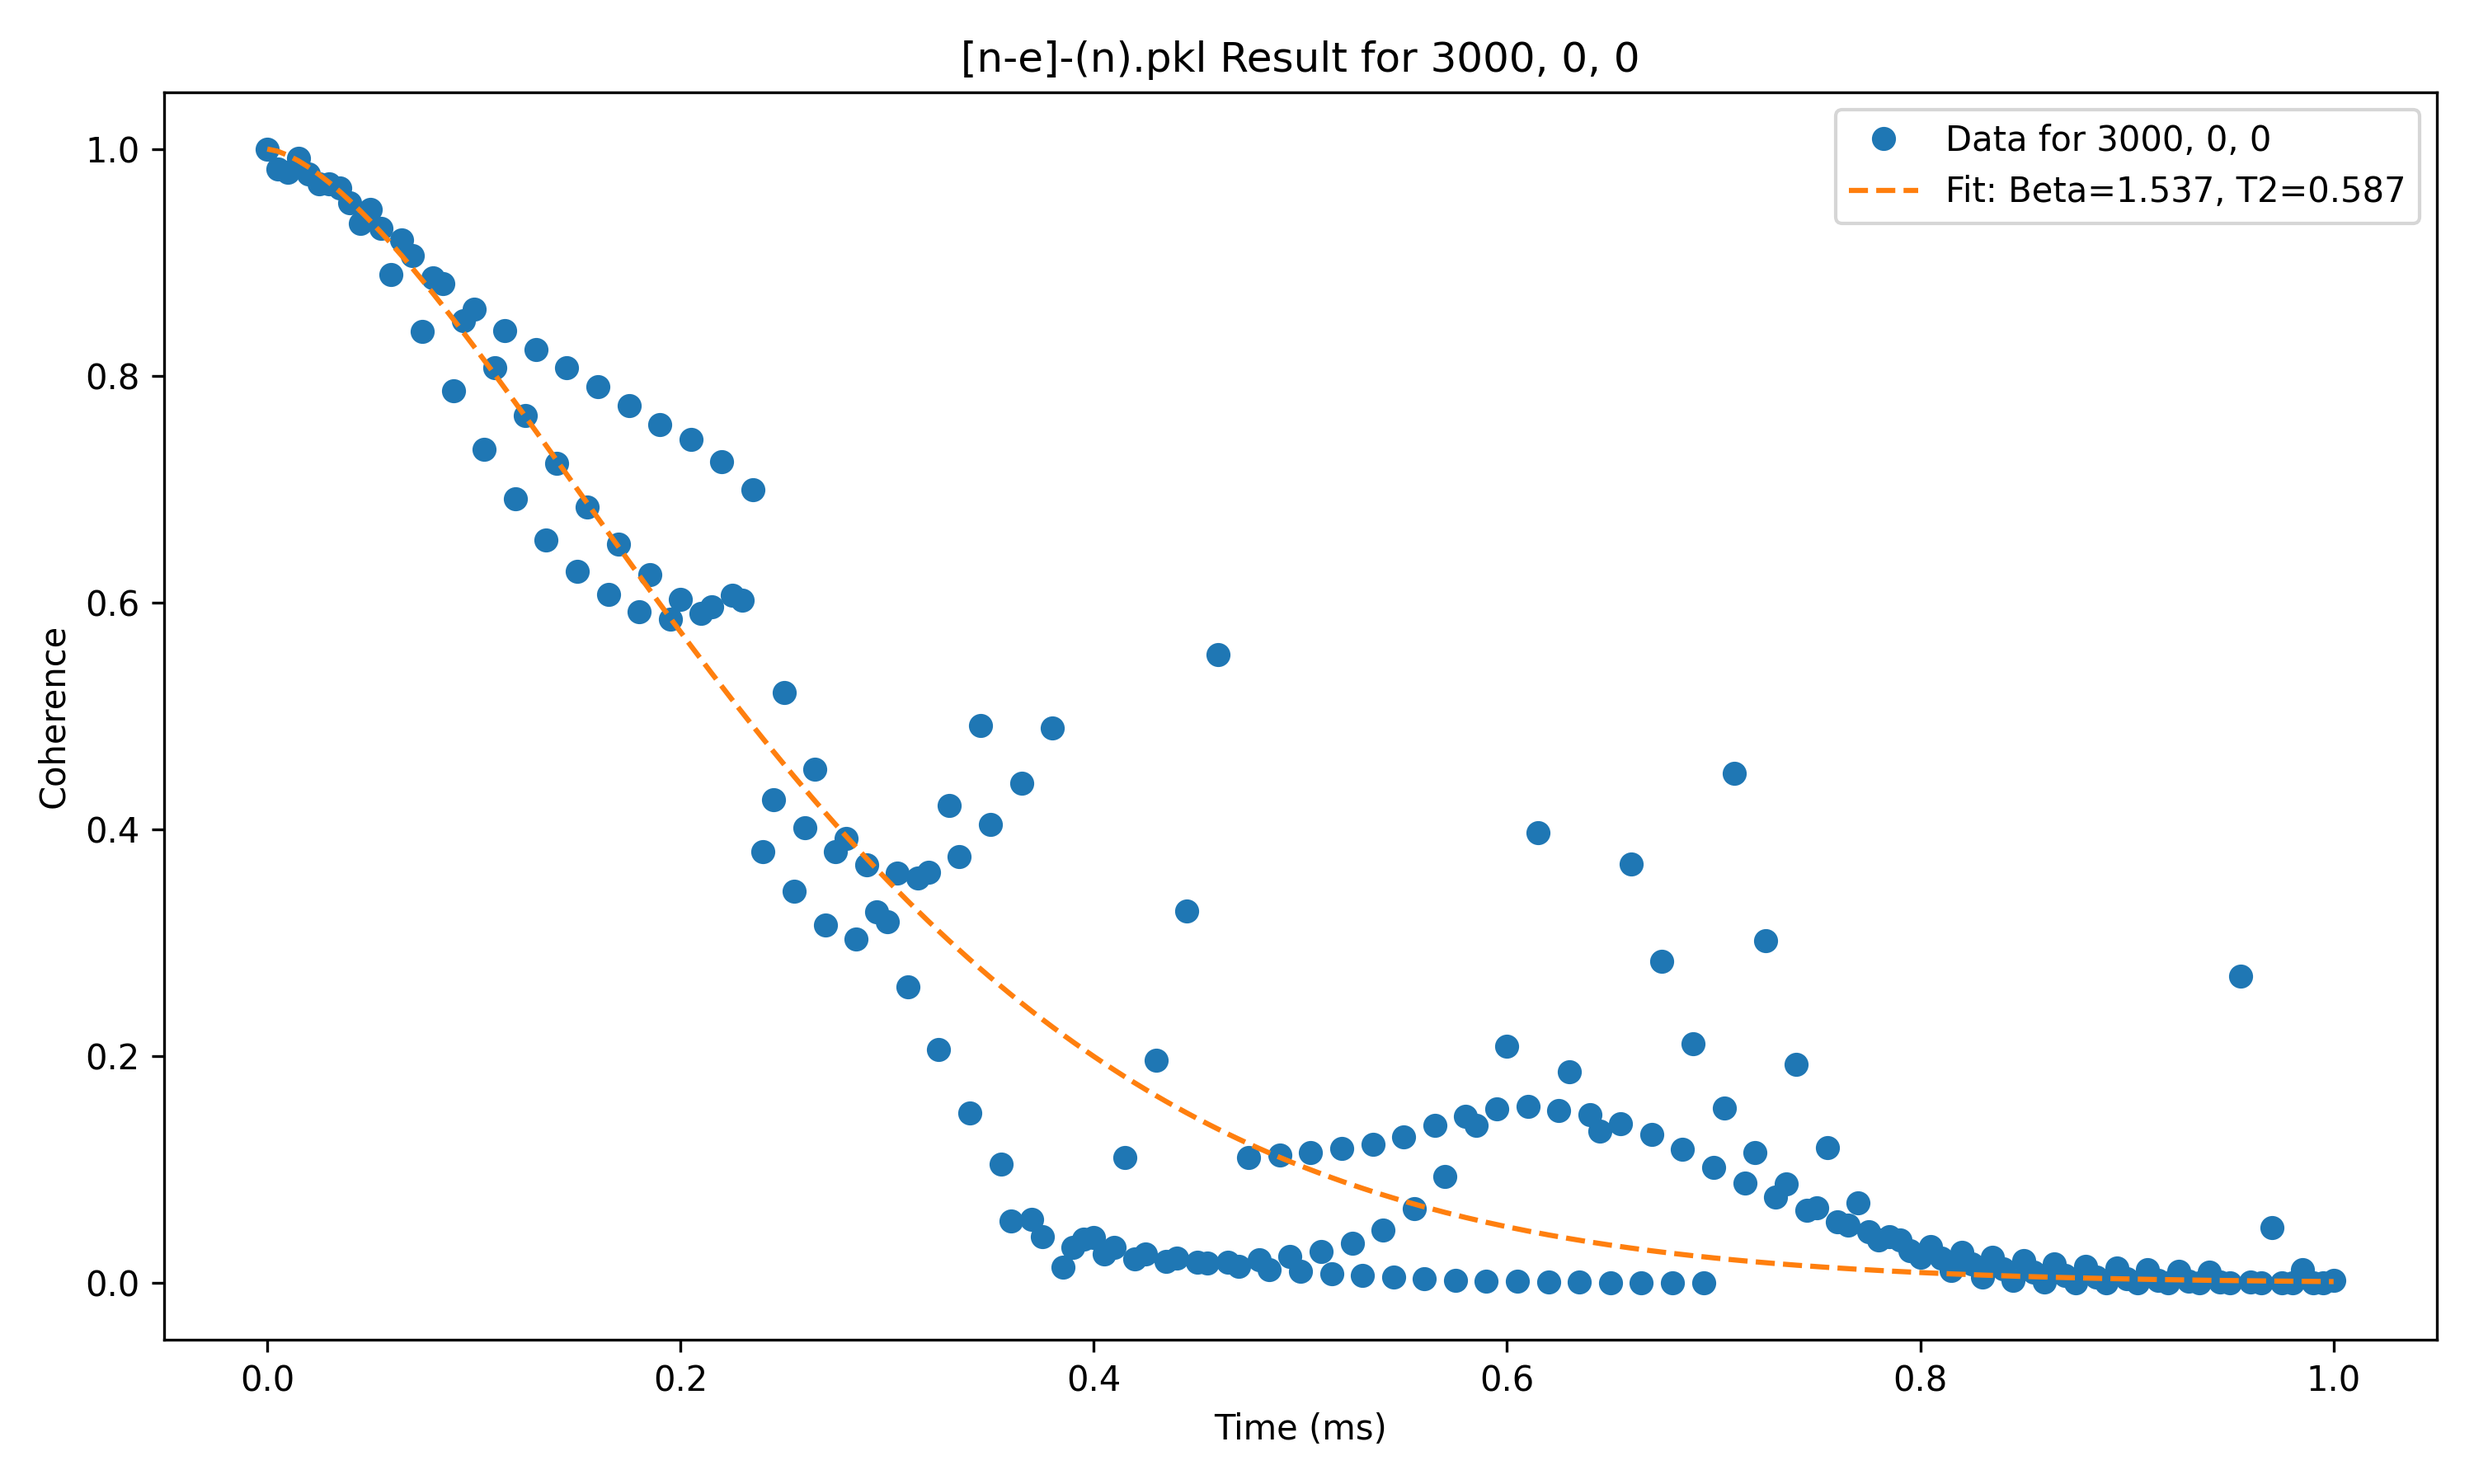
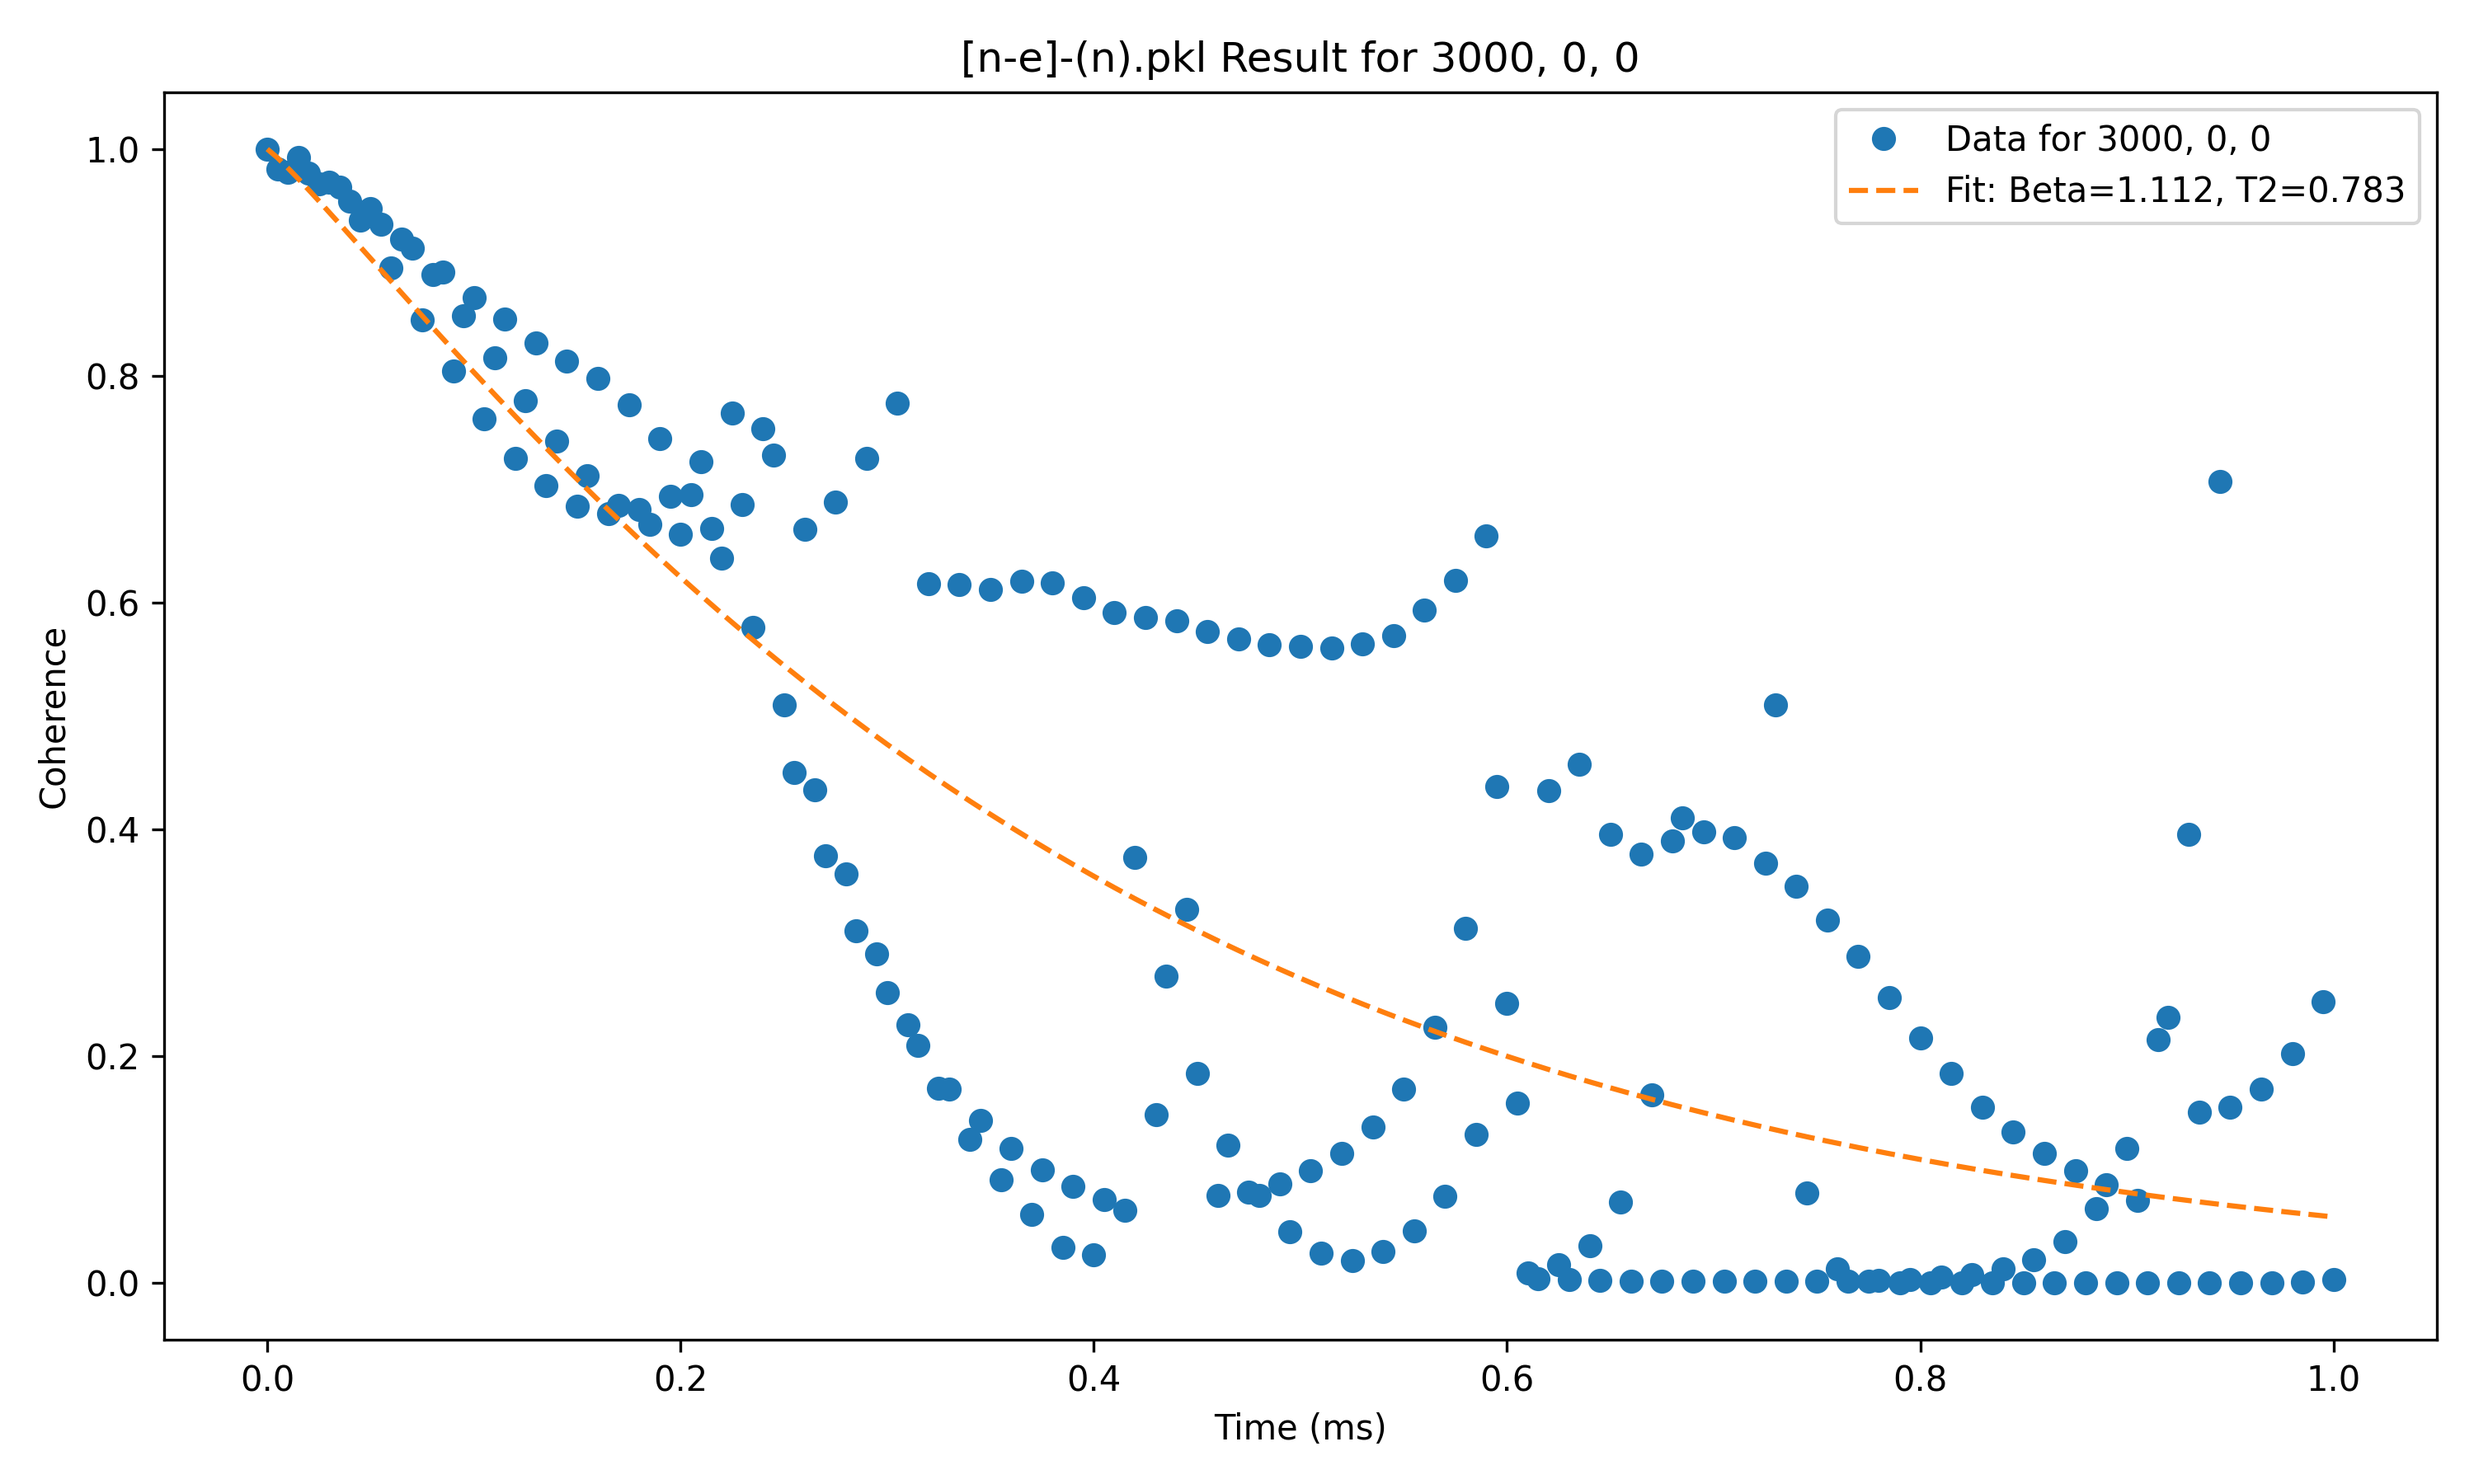
Testing -(n) with B=[1500]. T2 goes from 580us to 780us

diff --git a/VOTPP folder/VOTPP_[n-e]-(n).py b/VOTPP folder/VOTPP_[n-e]-(n).py
@@ -159,7 +159,7 @@ default_simulator_parameters = { ########## These should be greater when simulat
     'order': 2, #!
     'r_bath': 10, #16,
     'r_dipole': 5, #6,
-    'magnetic_field': [3000, 0, 0], # Magnetic field in Gauss
+    'magnetic_field': [1500, 0, 0], # Magnetic field in Gauss
 }
 
 
